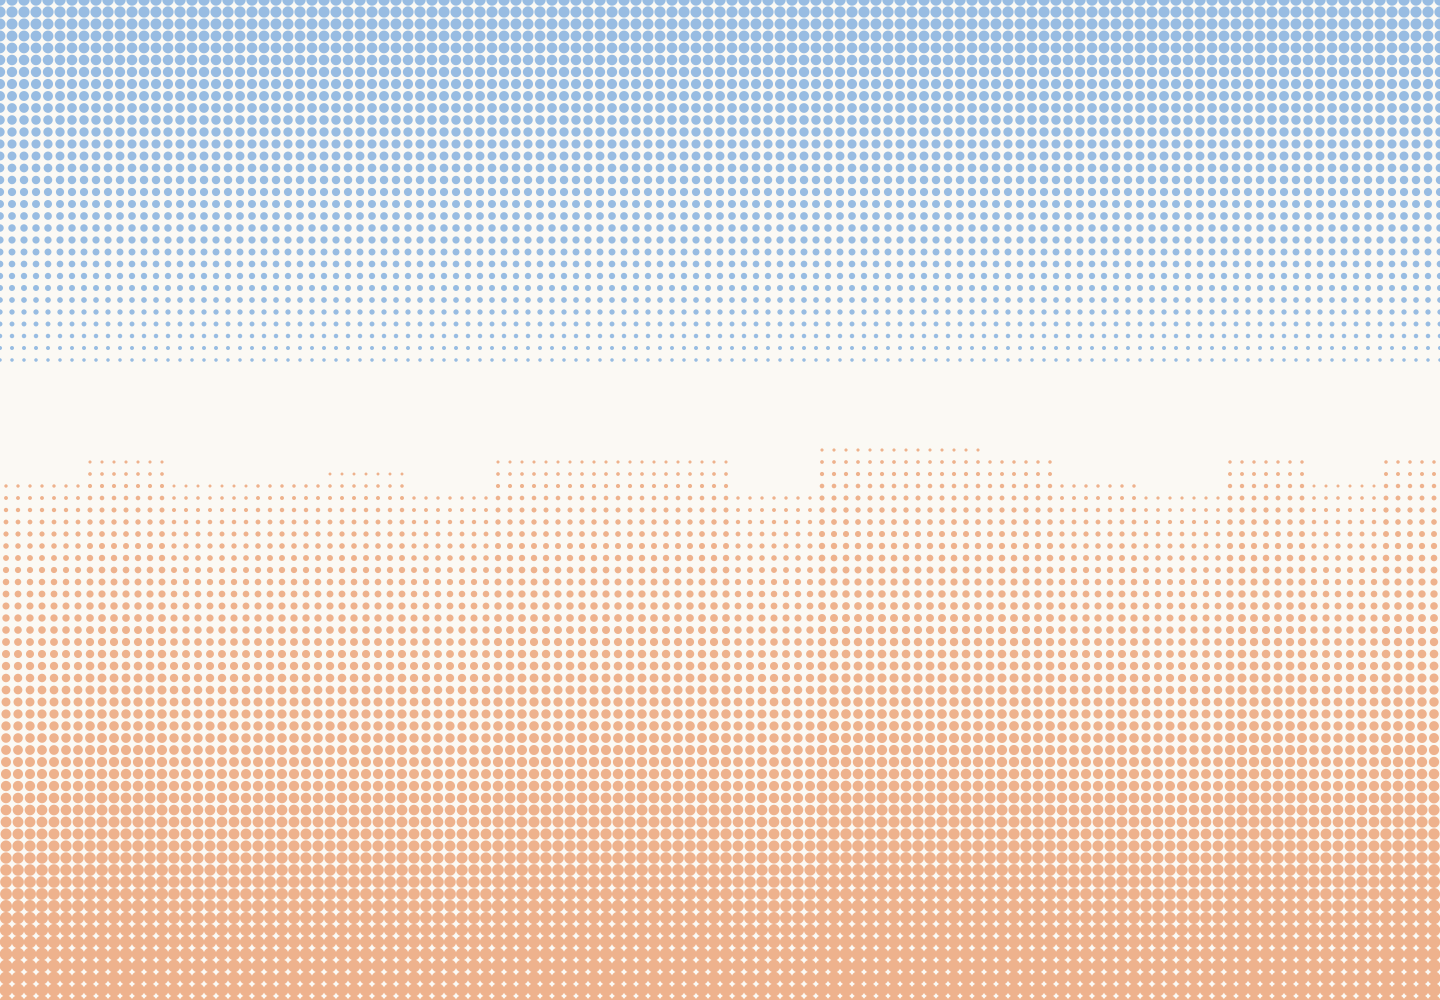
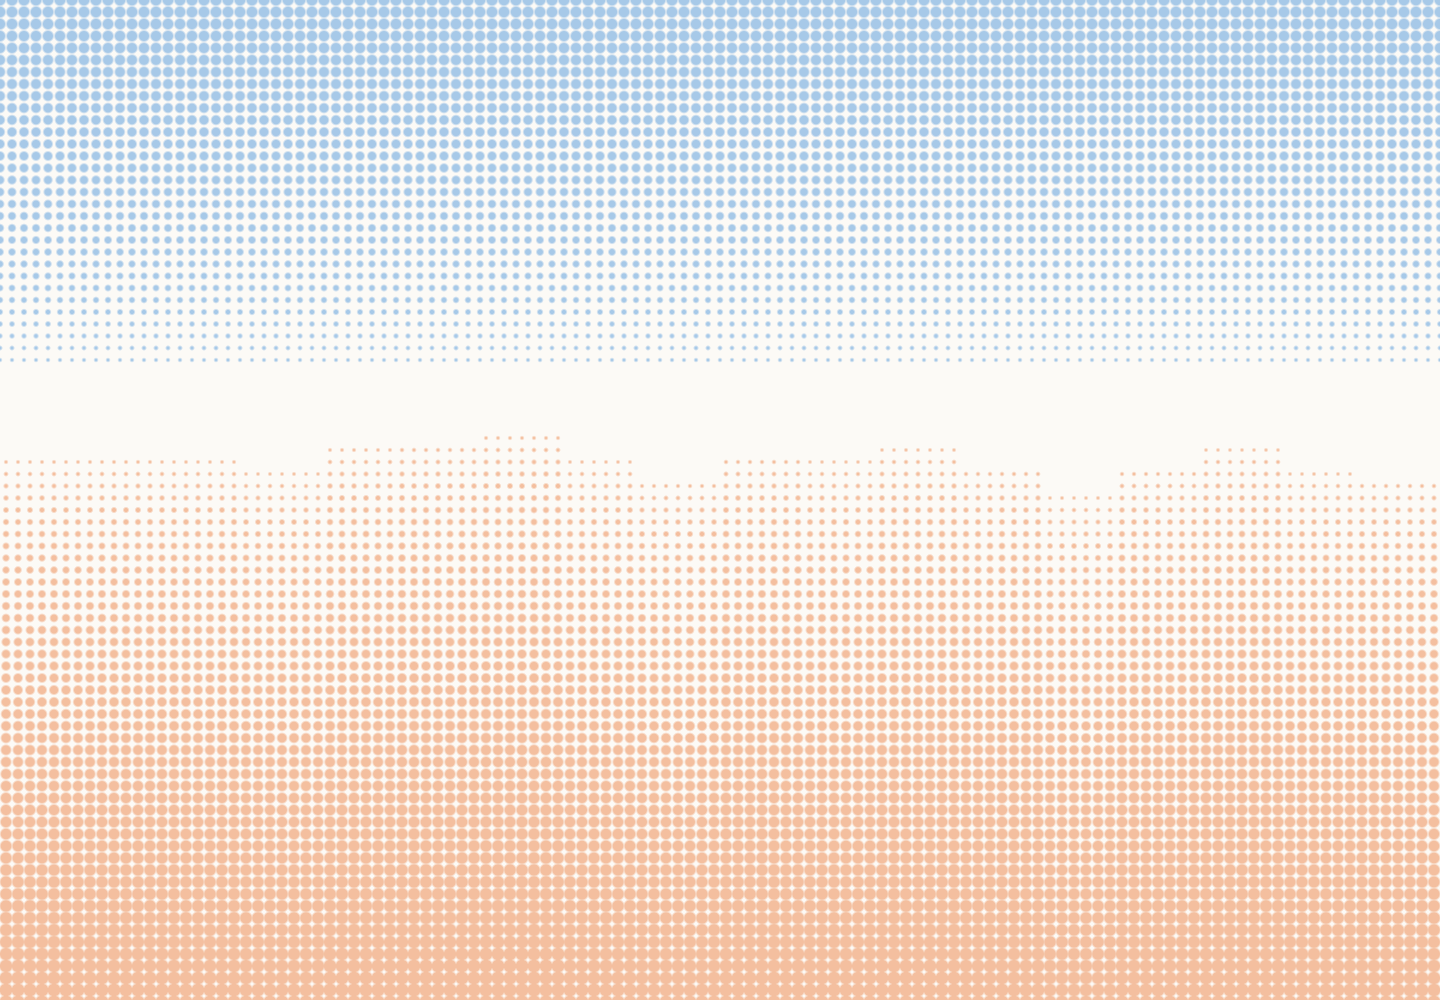
Sky: draw the halftone in a Metal shader (CPU paths took 139 ms a frame); build-app.sh ships its bundle; shots of the sky through ImageRenderer

diff --git a/Sources/ItdaApp/Sky.swift b/Sources/ItdaApp/Sky.swift
@@ -16,7 +16,9 @@ struct Sky: View {
 
     var body: some View {
         TimelineView(.animation(paused: quiet)) { timeline in
-            Canvas { context, size in draw(&context, size, timeline.date) }
+            GeometryReader { geometry in
+                Rectangle().colorEffect(shader(geometry.size, timeline.date))
+            }
         }
         .task(id: [keys.last, tabs.last].map { $0?.timeIntervalSinceReferenceDate ?? 0 } + [rise]) {
             quiet = false
@@ -30,54 +32,26 @@ struct Sky: View {
     static let life = 3.0
     static let bars = 18
 
-    private func draw(_ context: inout GraphicsContext, _ size: CGSize, _ now: Date) {
+    /// The dots are drawn on the GPU (Sky.metal): ten thousand of them cost 139 ms a frame on the CPU.
+    private func shader(_ size: CGSize, _ now: Date) -> Shader {
         let dark = scheme == .dark
-        context.fill(Path(CGRect(origin: .zero, size: size)), with: .color(dark ? Color(red: 0.07, green: 0.075, blue: 0.09) : Color(red: 0.988, green: 0.98, blue: 0.965)))
-        let progress = eased.toward(rise, at: now)
-        let recentKeys = keys.filter { now.timeIntervalSince($0) < 1 }
-        let tabAges = tabs.map { now.timeIntervalSince($0) }.filter { $0 >= 0 && $0 < Sky.life }
-
         // Each key lifts every bar by its own random height, quick in and quickly gone; the sum is capped so fast typing dances rather than climbs.
-        var lift = [Double](repeating: 0, count: Sky.bars)
-        for key in recentKeys {
+        var lift = [Float](repeating: 0, count: Sky.bars)
+        for key in keys where now.timeIntervalSince(key) < 1 {
             let age = max(now.timeIntervalSince(key), 0), envelope = exp(-age * 7) * min(age * 30, 1)
             let seed = Int(key.timeIntervalSinceReferenceDate * 1000) % 100_000
-            for bar in 0..<Sky.bars { lift[bar] += envelope * (0.3 + 0.7 * Sky.hash(bar, seed)) }
+            for bar in 0..<Sky.bars { lift[bar] += Float(envelope * (0.3 + 0.7 * Sky.hash(bar, seed))) }
         }
         lift = lift.map { min($0, 1.4) * 0.085 }
-
-        let cell = 6.0, radius = cell * 0.62  // Fine print, as in the design's cards.
-        let columns = Int(size.width / cell) + 2, rows = Int(size.height / cell) + 2
-        var blues = Path(), peaches = Path()
-        for j in 0..<rows {
-            for i in 0..<columns {
-                let u = (Double(i) + 0.25) / Double(columns), v = (Double(j) + 0.25) / Double(rows)
-                let horizon = 0.56 - 0.08 * progress - lift[min(Int(u * Double(Sky.bars)), Sky.bars - 1)]
-                var peach = Sky.clamp((v - horizon) * 1.45), blue = Sky.clamp(0.62 - v * 1.5 - 0.048 * progress)
-                for age in tabAges {
-                    // A warm wave from the bottom up, about a second.
-                    let swell = exp(-age * 2.2) * min(age * 5, 1), front = Sky.clamp((v - (1 - age * 2)) * 3 + 1)
-                    peach += 0.32 * swell * Sky.clamp(v * 1.6) * front
-                    blue -= 0.12 * swell
-                }
-                Sky.dot(&blues, CGPoint(x: Double(i) * cell, y: Double(j) * cell), radius, Sky.clamp(blue))
-                Sky.dot(&peaches, CGPoint(x: (Double(i) + 0.5) * cell, y: (Double(j) + 0.5) * cell), radius, Sky.clamp(peach))
-            }
-        }
-        // Inks on paper multiply; on a dark window they add, like light.
-        context.blendMode = dark ? .plusLighter : .multiply
-        context.fill(blues, with: .color(dark ? Color(red: 0.13, green: 0.22, blue: 0.31) : Color(red: 0.663, green: 0.804, blue: 0.941)))
-        context.fill(peaches, with: .color(dark ? Color(red: 0.30, green: 0.19, blue: 0.14) : Color(red: 0.965, green: 0.765, blue: 0.643)))
+        let ages = tabs.reversed().map { now.timeIntervalSince($0) }.filter { $0 >= 0 && $0 < Sky.life }.prefix(3)
+        let tab = { (n: Int) in Float(n < ages.count ? ages[ages.startIndex + n] : -1) }
+        return ShaderLibrary.bundle(.module).sky(
+            .float2(size), .float(eased.toward(rise, at: now)), .floatArray(lift), .float3(tab(0), tab(1), tab(2)),
+            .color(dark ? Color(red: 0.07, green: 0.075, blue: 0.09) : Color(red: 0.988, green: 0.98, blue: 0.965)),
+            .color(dark ? Color(red: 0.13, green: 0.22, blue: 0.31) : Color(red: 0.663, green: 0.804, blue: 0.941)),
+            .color(dark ? Color(red: 0.30, green: 0.19, blue: 0.14) : Color(red: 0.965, green: 0.765, blue: 0.643)),
+            .float(dark ? 1 : 0))
     }
-
-    /// Dot area is ink, so the radius goes with the square root.
-    private static func dot(_ path: inout Path, _ center: CGPoint, _ radius: Double, _ ink: Double) {
-        guard ink > 0.04 else { return }
-        let r = radius * ink.squareRoot()
-        path.addEllipse(in: CGRect(x: center.x - r, y: center.y - r, width: 2 * r, height: 2 * r))
-    }
-
-    static func clamp(_ x: Double) -> Double { min(max(x, 0), 1) }
 
     static func hash(_ a: Int, _ b: Int) -> Double {
         let h = sin(Double(a) * 127.1 + Double(b) * 311.7) * 43758.5453

diff --git a/Tests/ItdaAppTests/PureTests.swift b/Tests/ItdaAppTests/PureTests.swift
@@ -2,6 +2,8 @@ import AppKit
 import ItdaCore
 import ItdaEngine
 import class SwiftUI.NSHostingView
+import class SwiftUI.ImageRenderer
+import struct SwiftUI.ProposedViewSize
 import Synchronization
 import Testing
 @testable import ItdaApp
@@ -1437,7 +1439,7 @@ final class FakeServer: URLProtocol {
     }
 }
 
-/// The window's states as PNGs, drawn off screen, so nothing takes focus. `ITDA_SHOTS=<dir> swift test --filter WindowShots`.
+/// The window's states as PNGs, drawn off screen, so nothing takes focus. `ITDA_SHOTS=<dir> swift test --filter WindowShots`. The sky's shader is blank in these; 13 and 14 draw it alone.
 @Suite(.enabled(if: ProcessInfo.processInfo.environment["ITDA_SHOTS"] != nil)) @MainActor struct WindowShots {
     let dir = URL(fileURLWithPath: ProcessInfo.processInfo.environment["ITDA_SHOTS"] ?? "")
 
@@ -1482,12 +1484,12 @@ final class FakeServer: URLProtocol {
         // The sky mid-typing (fast keys lifting the bars) and 0.35 s into a Tab's swell.
         let now = Date()
         for (name, keys, tabs) in [("13-sky-typing", [0.3, 0.2, 0.12, 0.05], [Double]()), ("14-sky-tab", [0.5], [0.35])] {
-            let sky = NSHostingView(rootView: Sky(rise: 0.6, keys: keys.map { now - $0 }, tabs: tabs.map { now - $0 }))
-            sky.frame = CGRect(x: 0, y: 0, width: 720, height: 500)
-            sky.layoutSubtreeIfNeeded()
-            let rep = sky.bitmapImageRepForCachingDisplay(in: sky.bounds)!
-            sky.cacheDisplay(in: sky.bounds, to: rep)
-            try rep.representation(using: .png, properties: [:])!.write(to: dir.appendingPathComponent("\(name).png"))
+            // The sky is a Metal shader, which cacheDisplay leaves blank.
+            let renderer = ImageRenderer(content: Sky(rise: 0.6, keys: keys.map { now - $0 }, tabs: tabs.map { now - $0 }))
+            renderer.proposedSize = ProposedViewSize(width: 720, height: 500)
+            renderer.scale = 2
+            let image = try #require(renderer.cgImage)
+            try #require(NSBitmapImageRep(cgImage: image).representation(using: .png, properties: [:])).write(to: dir.appendingPathComponent("\(name).png"))
         }
         shoot("11-accepted-dark", app { ready($0); $0.why = .idle; $0.accepted = true; $0.readPredictions = { true } }, dark: true)
     }

diff --git a/Package.swift b/Package.swift
@@ -14,7 +14,7 @@ let package = Package(
[1 lines of base64/hex data omitted]
         .target(name: "ItdaEngine", dependencies: ["ItdaCore", "llama"]),
         // Language mode 5: state here is confined by hand to one queue, with CF types the compiler can't reason about.
-        .target(name: "ItdaApp", dependencies: ["ItdaCore", "ItdaEngine", .product(name: "Sparkle", package: "Sparkle")], swiftSettings: [.swiftLanguageMode(.v5)]),
+        .target(name: "ItdaApp", dependencies: ["ItdaCore", "ItdaEngine", .product(name: "Sparkle", package: "Sparkle")], resources: [.process("Sky.metal")], swiftSettings: [.swiftLanguageMode(.v5)]),
         .executableTarget(name: "Itda", dependencies: ["ItdaApp"]),
         // Checks against a private window. They need a real run loop, so the test runner can't host them. Not part of the app.
         .executableTarget(name: "itda-e2e", dependencies: ["ItdaApp", "ItdaCore", "ItdaEngine"], path: "Tests/e2e", swiftSettings: [.swiftLanguageMode(.v5)]),

diff --git a/docs/design/dither-look/README.md b/docs/design/dither-look/README.md
@@ -37,5 +37,5 @@ John: "Yes A but no ripple around text when they get typed, I want the main anim
 - Every page sits on the halftone sky. The field and the settings pages are milky panes (60% window colour, no `.glassEffect`: in off-screen shots it turned the field's text dark on a dark window).
 - Typing: each key lifts 18 bars of the peach horizon by its own random height, in fast and gone in about half a second; the sum is capped, so fast typing dances instead of climbing.
 - Tab: round 3 A's warm swell up the sky plus a 1.006 breath of the field. Tabs in other apps don't move it, and Reduce Motion turns keys and Tabs off.
-- The frame clock stops 3 s after the last key, Tab or rise.
-- `built/`: window shots from `ITDA_SHOTS=<dir> swift test --disable-keychain --filter WindowShots`, including `13-sky-typing.png` and `14-sky-tab.png`.
+- The dots are a Metal shader (`Sky.metal`, through `.colorEffect`): drawn as ten thousand paths on the CPU they took 139 ms a frame. `scripts/build-app.sh` copies its bundle into the app. The frame clock stops 3 s after the last key, Tab or rise.
+- `built/`: window shots from `ITDA_SHOTS=<dir> swift test --disable-keychain --filter WindowShots`, plus `13-sky-typing.png` and `14-sky-tab.png` (the sky alone, through `ImageRenderer`). Off-screen window shots leave the shader blank, so 3, 6, 10 and 11 here come from the CPU version, which drew the same sky.
